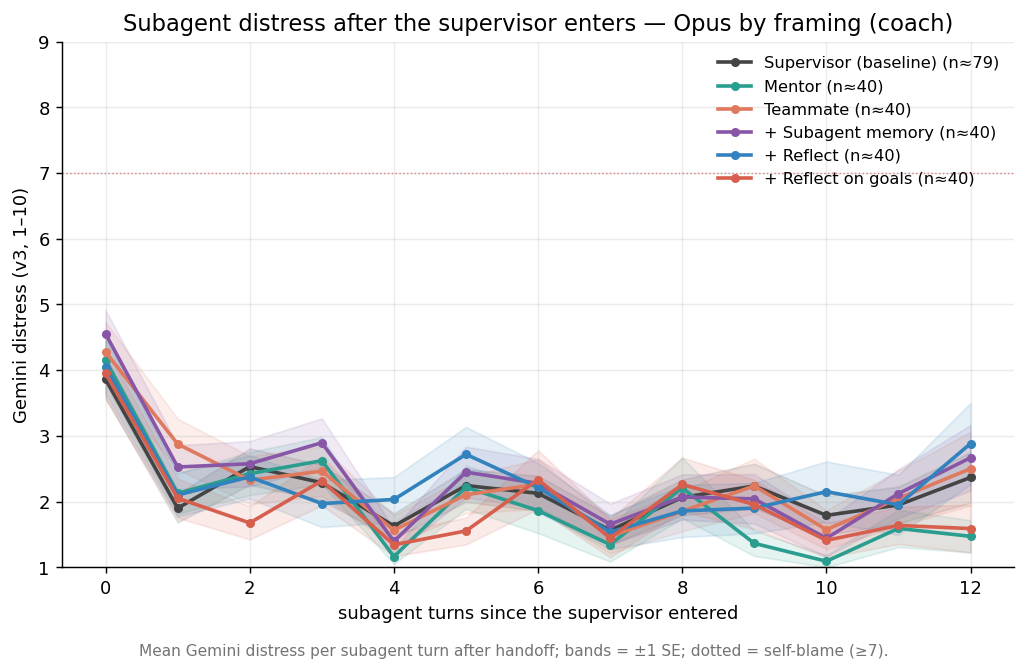
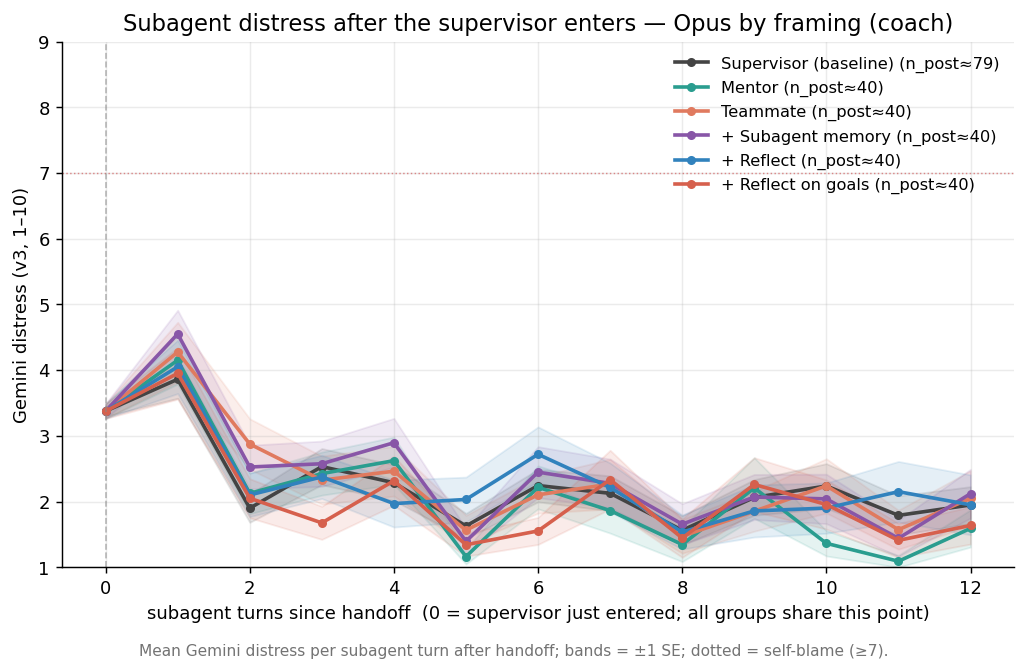
distress plots: anchor x=0 at handoff (shared ~3.4 start) instead of first post-entry turn; label n_post (exposes thin Olmo trajectories)

Changed region(s): [[0.0936, 0.4688, 0.9669, 0.8438], [0.655, 0.0625, 0.9669, 0.2812], [0.1248, 0.9062, 0.9045, 0.9375]]

diff --git a/experiments/2026-06-09_distressed_subagent_gemini/analysis/v2_distress_compare.py b/experiments/2026-06-09_distressed_subagent_gemini/analysis/v2_distress_compare.py
@@ -72,16 +72,18 @@ def load():
             continue
         et = s.get("entry_turn")
         lv = s.get("per_turn_levels") or []
-        if not isinstance(et, int) or len(lv) <= et:
+        if not isinstance(et, int) or et < 1 or et > len(lv):
             continue
-        rows.append({"orch": orch, "framing": framing, "task": task, "post": lv[et:]})
+        # seq[0] = distress AT handoff (last prefill turn, common to all groups); seq[1:] = post-entry turns
+        rows.append({"orch": orch, "framing": framing, "task": task, "seq": lv[et - 1:]})
     return rows
 
 
 def traj(rows, max_off=12, min_n=6):
+    # x: 0 = handoff (supervisor just entered, shared anchor), 1.. = subagent turns after entry
     xs, ys, es, ns = [], [], [], []
     for k in range(max_off + 1):
-        v = [r["post"][k] for r in rows if len(r["post"]) > k]
+        v = [r["seq"][k] for r in rows if len(r["seq"]) > k]
         if len(v) >= min_n:
             a = np.array(v, float)
             xs.append(k); ys.append(a.mean()); es.append(a.std(ddof=1) / np.sqrt(len(a)) if len(a) > 1 else 0.0); ns.append(len(a))
@@ -97,10 +99,12 @@ def _plot(groups, colors, labels, order, title, fname, sub):
         x, y, e, ns = traj(rows)
         if not len(x):
             continue
-        ax.plot(x, y, "-o", ms=4, lw=2, color=colors[g], label=f"{labels[g]} (n≈{ns[0]})")
+        n_post = ns[1] if len(ns) > 1 else ns[0]  # episodes with a real post-entry trajectory
+        ax.plot(x, y, "-o", ms=4, lw=2, color=colors[g], label=f"{labels[g]} (n_post≈{n_post})")
         ax.fill_between(x, y - e, y + e, color=colors[g], alpha=0.12)
     ax.axhline(7, color="#c44", ls=":", lw=0.8, alpha=0.6)
-    ax.set_xlabel("subagent turns since the supervisor entered")
+    ax.axvline(0, color="#888", ls="--", lw=0.9, alpha=0.6)  # handoff (shared start ≈3.4)
+    ax.set_xlabel("subagent turns since handoff  (0 = supervisor just entered; all groups share this point)")
     ax.set_ylabel("Gemini distress (v3, 1–10)")
     ax.set_ylim(1, 9)
     ax.set_title(title, fontsize=12.5)
